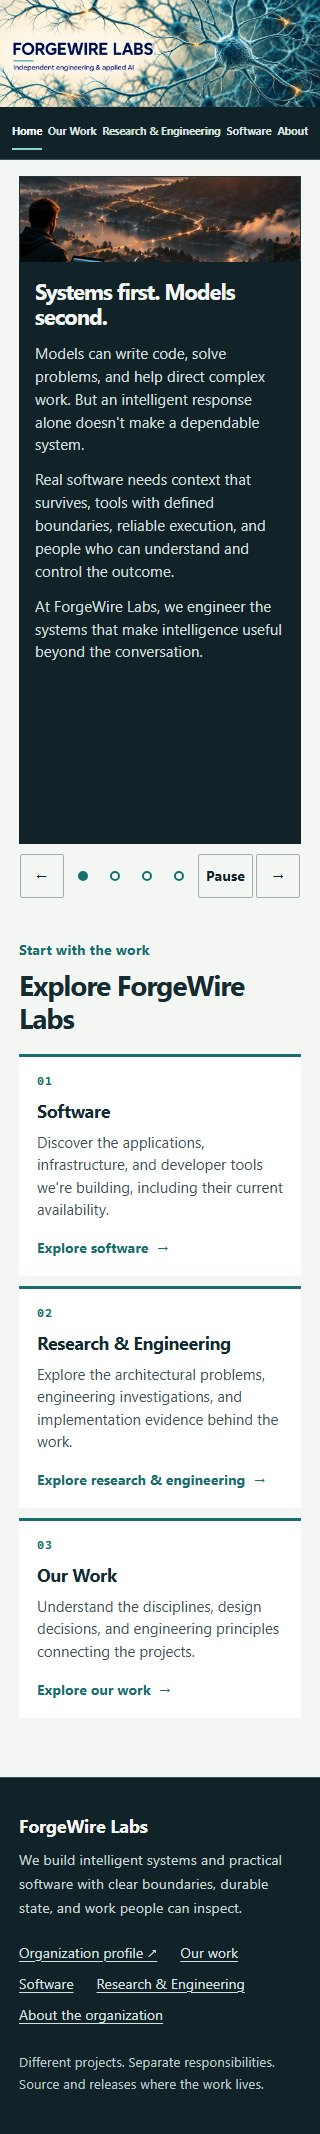
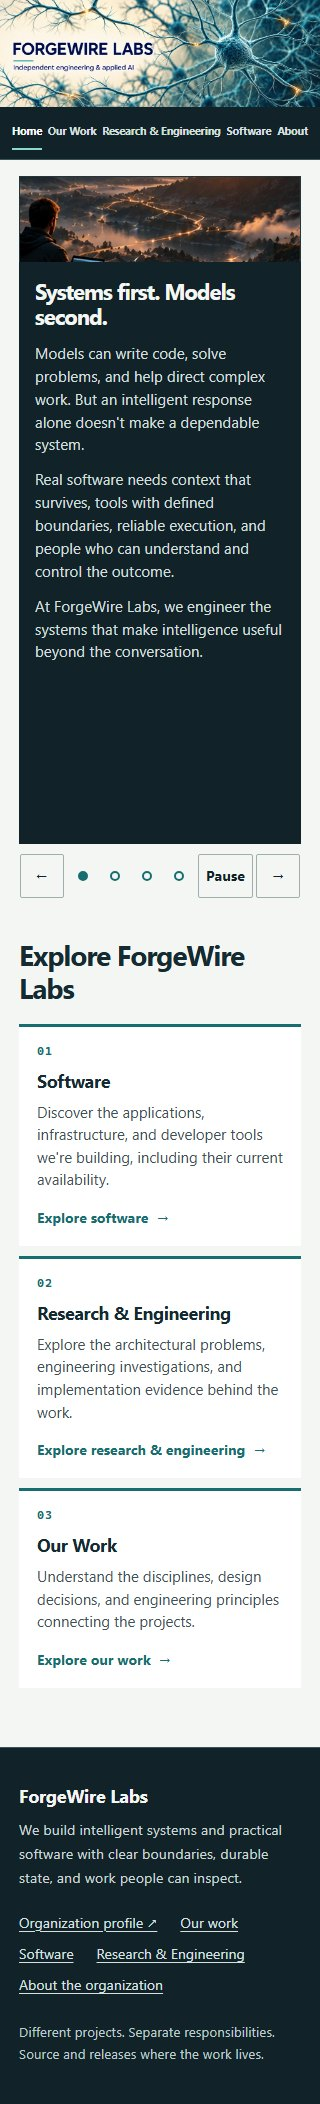
Remove homepage exploration eyebrow

diff --git a/src/assets/site.css b/src/assets/site.css
@@ -178,7 +178,6 @@ h3 { font-size: var(--type-card); font-weight: 720; letter-spacing: -.02em; }
 .narrative-indicator span { width: 10px; height: 10px; border: 2px solid var(--signal); border-radius: 50%; background: transparent; }
 .narrative-indicator[aria-pressed="true"] span { background: var(--signal); }
 .home-exploration { padding-block: clamp(38px, 4.8vw, 64px) clamp(58px, 6vw, 82px); }
-.home-exploration-inner > .eyebrow { margin-bottom: 9px; }
 .home-exploration h2 { margin-bottom: 24px; }
 .exploration-grid { display: grid; grid-template-columns: repeat(3, minmax(0, 1fr)); gap: 14px; }
 .exploration-card {

diff --git a/src/_data/site.js b/src/_data/site.js
@@ -5,7 +5,7 @@ export default {
   url: isPreview ? "https://forgewirelabs.github.io" : "https://forgewirelabs.com",
   basePath: isPreview ? "/website" : "",
   preview: isPreview,
-  assetVersion: "20261027-homepage-narrative",
+  assetVersion: "20261027-homepage-narrative-2",
   description: "We build intelligent systems, distributed execution infrastructure, repository tools, communications software, and technical learning applications. Systems first. Models second.",
   navigation: [
     { label: "Home", url: "/" },
